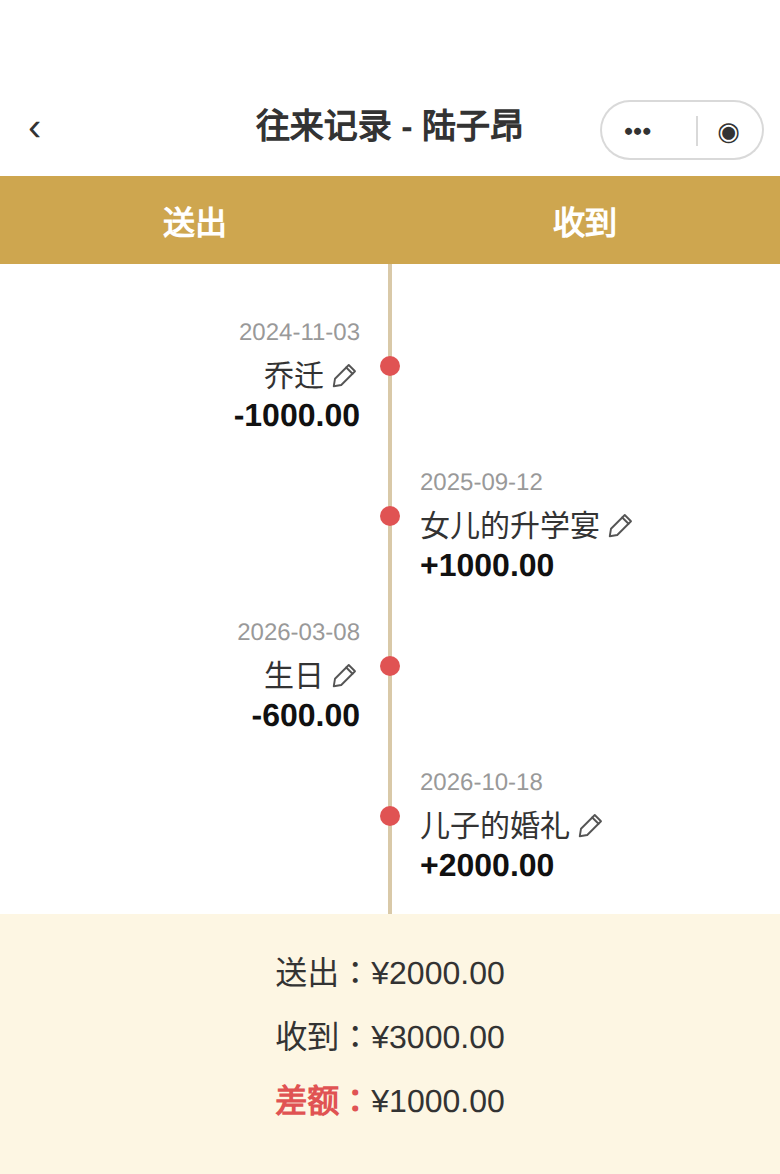
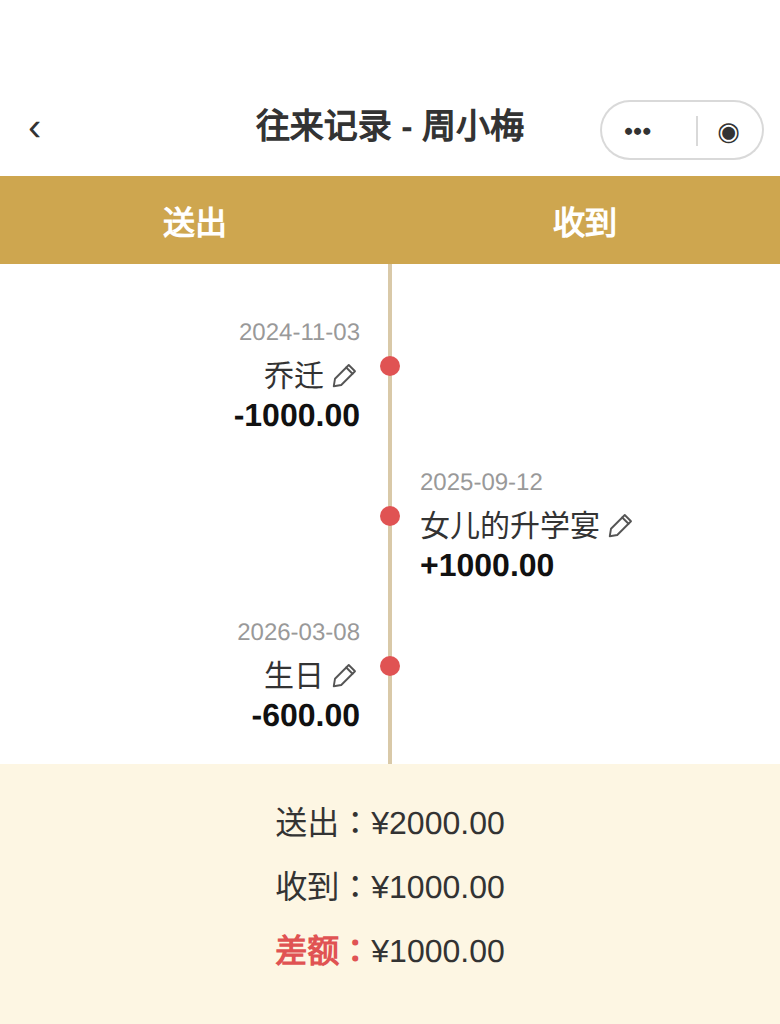
AH批引导图竖线树再改：联系人改周小梅、去掉儿子的婚礼记录（共3条：送出2000/收到1000/差额1000）

diff --git a/docs/screens/guide-assets-src/timeline.html b/docs/screens/guide-assets-src/timeline.html
@@ -1,7 +1,7 @@
 <!DOCTYPE html><html><head><meta charset="utf-8"><style>
 /* 引导图3 · 往来竖线树（静态复刻）
-   数据口径（2026-10-25 用户定）：与亲友「陆子昂」的往来，全图共 4 条；送礼用标签；
-   收礼条目不出现人名、用亲人称谓的事件命名（女儿的升学宴、儿子的婚礼）；金额只用 1000/2000。
+   数据口径（2026-10-25 用户定）：与亲友「周小梅」的往来，全图共 3 条；送礼用标签；
+   收礼条目不出现人名、用亲人称谓的事件命名（女儿的升学宴）；金额只用 1000/2000。
    顺序与真实页面一致：core/stats 按日期从早到晚。金额：条目无 ¥ 前缀、
    送出负号/收到正号、两位小数（formatAmount）；底部汇总带 ¥ 两位小数，
    差额 = |收到 − 送出|。版式按 pages/timeline 的 wxml/wxss（rpx 按 390/750 换算）。 */
@@ -28,7 +28,7 @@ body { width:390px; background:#F6F6F6; font-family:-apple-system,"PingFang SC",
 .sumbar { background:#FDF6E3; text-align:center; padding:15px 0 19px; font-size:16px; line-height:2; color:#333; }
 .sumbar .dl { color:#E05353; font-weight:700; }
 </style></head><body>
-<div class="nav"><div class="back">‹</div><div class="title">往来记录 - 陆子昂</div><div class="capsule"><span>•••</span><span style="border-left:1px solid rgba(0,0,0,.15);padding-left:10px">◉</span></div></div>
+<div class="nav"><div class="back">‹</div><div class="title">往来记录 - 周小梅</div><div class="capsule"><span>•••</span><span style="border-left:1px solid rgba(0,0,0,.15);padding-left:10px">◉</span></div></div>
 
 <div class="kindbar"><div class="kind-half songti">送出</div><div class="kind-half songti">收到</div></div>
 
@@ -37,12 +37,11 @@ body { width:390px; background:#F6F6F6; font-family:-apple-system,"PingFang SC",
   <div class="trow"><div class="tcell left"><div class="tdate">2024-11-03</div><div class="treason songti">乔迁<img class="tpen" src="../../../miniprogram/images/icons/pen.svg"></div><div class="tamt">-1000.00</div></div><div class="tdot"></div><div class="tcell right"></div></div>
   <div class="trow"><div class="tcell left"></div><div class="tdot"></div><div class="tcell right"><div class="tdate">2025-09-12</div><div class="treason songti">女儿的升学宴<img class="tpen" src="../../../miniprogram/images/icons/pen.svg"></div><div class="tamt">+1000.00</div></div></div>
   <div class="trow"><div class="tcell left"><div class="tdate">2026-03-08</div><div class="treason songti">生日<img class="tpen" src="../../../miniprogram/images/icons/pen.svg"></div><div class="tamt">-600.00</div></div><div class="tdot"></div><div class="tcell right"></div></div>
-  <div class="trow"><div class="tcell left"></div><div class="tdot"></div><div class="tcell right"><div class="tdate">2026-10-18</div><div class="treason songti">儿子的婚礼<img class="tpen" src="../../../miniprogram/images/icons/pen.svg"></div><div class="tamt">+2000.00</div></div></div>
 </div>
 
 <div class="sumbar">
   <div>送出：¥2000.00</div>
-  <div>收到：¥3000.00</div>
+  <div>收到：¥1000.00</div>
   <div><span class="dl">差额：</span>¥1000.00</div>
 </div>
 </body></html>

diff --git a/tests/test-batch-ah.js b/tests/test-batch-ah.js
@@ -41,8 +41,8 @@ const read = (p) => fs.readFileSync(p, 'utf8');
   const recvNames = namesOf(recv); const giftNames = namesOf(gifts);
   assert(recvNames.length === 12 && giftNames.length === 8, '收礼 12 人、送礼 8 人');
   assert(recvNames.every((n) => !giftNames.includes(n)), '收礼与送礼人名不得重名（用户定）');
-  assert((tl.match(/<div class="trow">/g) || []).length === 4, '竖线树共 4 条（用户定 3-4 条）');
-  assert(tl.includes('女儿的升学宴') && tl.includes('儿子的婚礼'), '竖线树收礼用亲人称谓事件命名、不出现人名');
+  assert((tl.match(/<div class="trow">/g) || []).length === 3, '竖线树共 3 条（用户定 3-4 条、去掉儿子的婚礼）');
+  assert(tl.includes('女儿的升学宴') && tl.includes('周小梅'), '竖线树收礼用亲人称谓事件命名、联系人周小梅');
   for (const src of [recv, gifts, tl]) {
     assert(!/\.songti \{ font-family:"Songti/.test(src) && !src.includes('STSong'), '复刻图字体须与真实页面同口径（全站黑体、无宋体）');
   }
